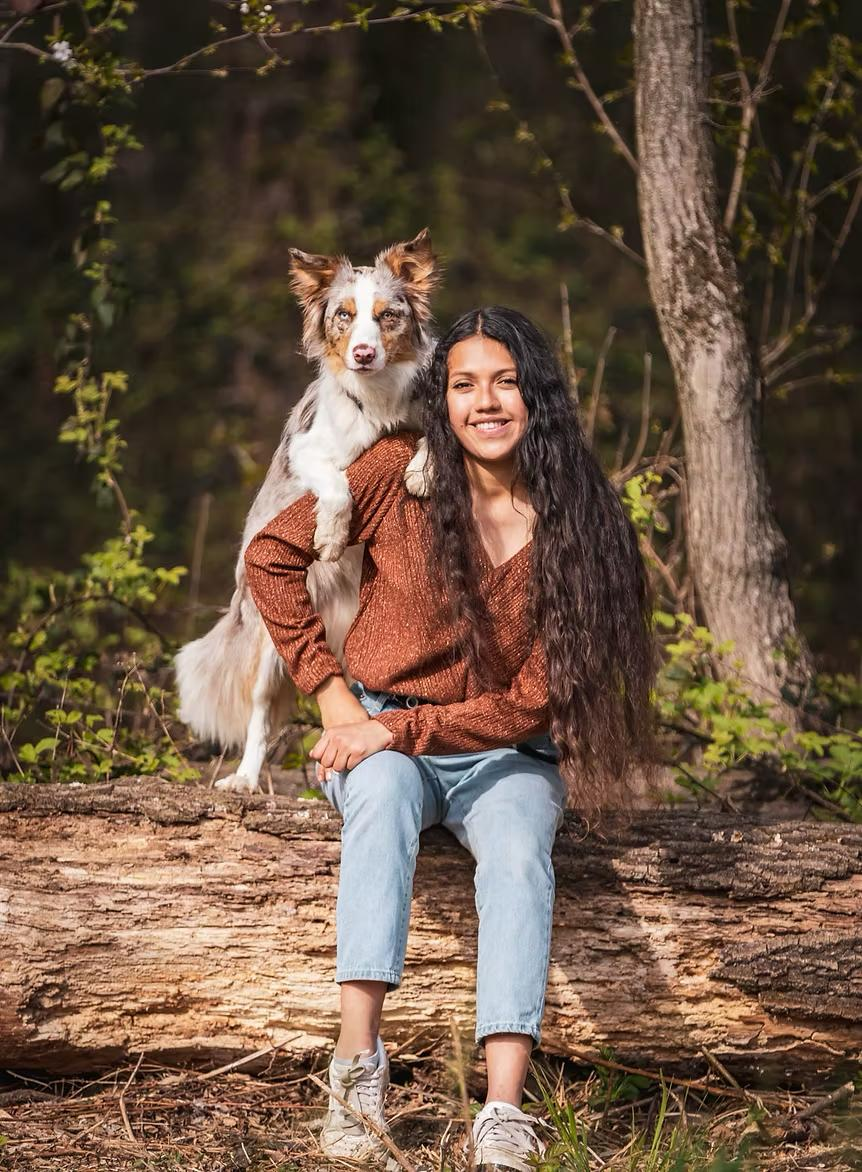
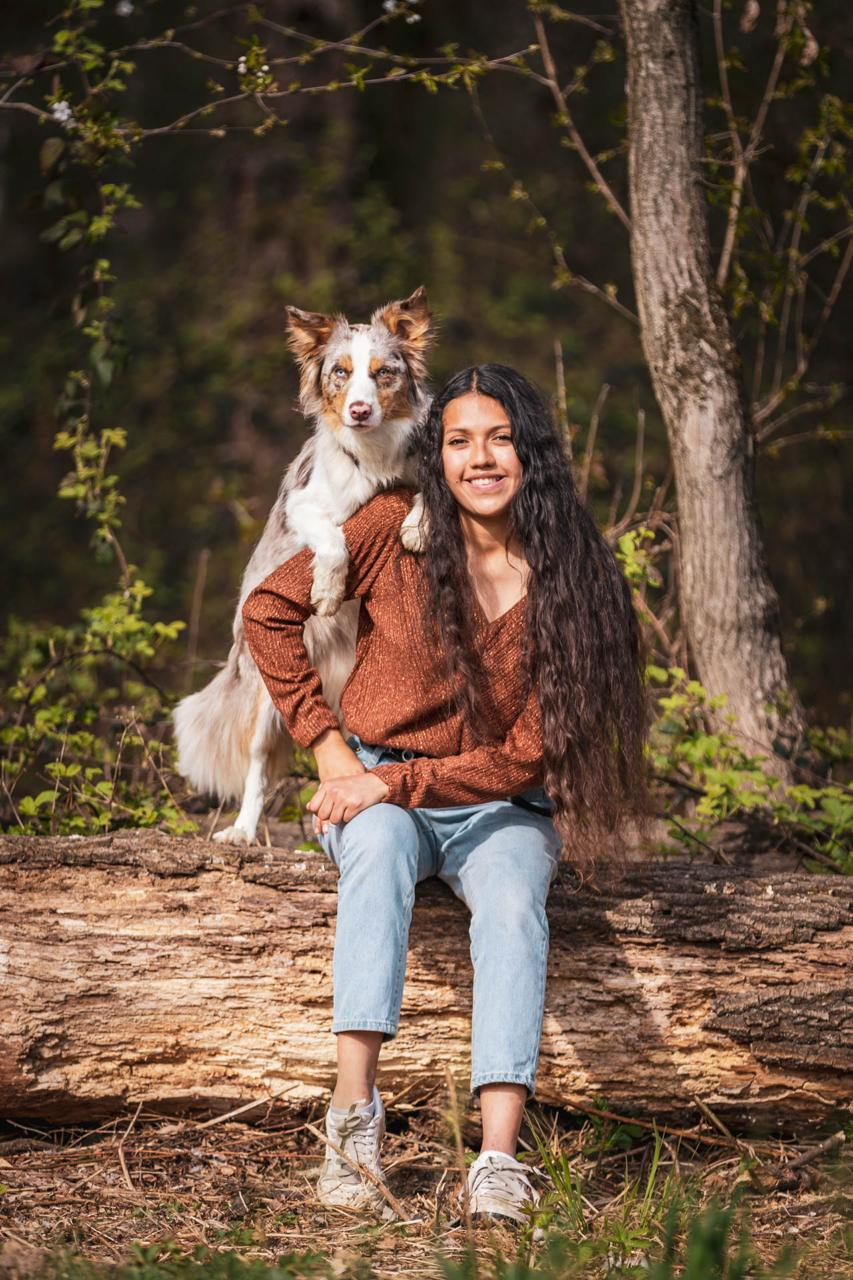
replaced img with hi res, implented toggle on objection section

diff --git a/index.html b/index.html
@@ -167,7 +167,7 @@ relazione con il tuo cane con l’aiuto di Melissa Muñoz.">
 
 						<div id="logo">
 							<a href="index.html">
-									<h1 class="title">Melissa Munoz</h1>
+								<h1 class="title">Melissa Munoz</h1>
 							</a>
 						</div>
 
@@ -196,13 +196,14 @@ relazione con il tuo cane con l’aiuto di Melissa Muñoz.">
 										<div>Home</div>
 									</a>
 								</li>
-								 <li class="menu-item">
-									<a href="#about-anchor" class="menu-link" data-href="#about-anchor" data-scrollto="#form-anchor" data-easing="easeInOutExpo" data-speed="1250"
-							data-offset="70">
+								<li class="menu-item">
+									<a href="#about-anchor" class="menu-link" data-href="#about-anchor"
+										data-scrollto="#form-anchor" data-easing="easeInOutExpo" data-speed="1250"
+										data-offset="70">
 										<div>About</div>
 									</a>
-								</li> 
-							<!-- 	<li class="menu-item">
+								</li>
+								<!-- 	<li class="menu-item">
 									<a href="/risultati.html" class="menu-link" data-href="/risultati.html">
 										<div>Risultati</div>
 									</a>
@@ -273,7 +274,8 @@ relazione con il tuo cane con l’aiuto di Melissa Muñoz.">
 						<h2 class="mx-auto mb-5 mt-5 font-body" style="max-width: 700px; font-size: 40px;">
 							Un cane sereno nasce da una relazione profonda. </h2>
 
-						<p class="lead mx-auto mb-5" style="max-width: 800px; font-size:30px"> Ti aiuto a costruirla, passo passo e su
+						<p class="lead mx-auto mb-5" style="max-width: 800px; font-size:30px"> Ti aiuto a costruirla,
+							passo passo e su
 							misura per te.</p>
 						<!--<h4><u>Non è colpa tua. E non è colpa sua.</u></h4> -->
 						<div class="mt-5 text-center mb-5"><a id="chiedi-lezione"
@@ -281,8 +283,8 @@ relazione con il tuo cane con l’aiuto di Melissa Muñoz.">
 								data-easing="easeInOutExpo" data-speed="1250" data-offset="70">Scopri di più</a></div>
 
 					</div>
-					<div class="container row g-0 mx-auto" id="il-tuo-cane-tira" >
-						<div class="col-lg-6 col-md-6 col-sm-12 col-12 large-text-section"  >
+					<div class="container row g-0 mx-auto" id="il-tuo-cane-tira">
+						<div class="col-lg-6 col-md-6 col-sm-12 col-12 large-text-section">
 							<p> Il tuo cane tira al guinzaglio, si agita quando vede altri cani o non riesci a
 								portarlo in pubblico per paura delle sue reazioni?</p>
 							<p>Raggiungere più equilibrio e sicurezza insieme è possibile, dobbiamo solo
@@ -322,8 +324,7 @@ relazione con il tuo cane con l’aiuto di Melissa Muñoz.">
 
 						<div class="col-lg-6 col-md-6 col-sm-12 col-12" id="img-1-wrapper">
 
-							<img src="images/img-walking.jpeg" alt="Melissa e Krystal" class="img-fluid"
-								id="img-1">
+							<img src="images/img-walking.jpeg" alt="Melissa e Krystal" class="img-fluid" id="img-1">
 						</div>
 
 
@@ -338,7 +339,7 @@ relazione con il tuo cane con l’aiuto di Melissa Muñoz.">
 		<div class="clear"></div>
 
 
-   <a id="about-anchor"></a>
+		<a id="about-anchor"></a>
 		<div id="section-about" class="page-section alt pt-5">
 
 			<div class="p-4">
@@ -350,40 +351,45 @@ relazione con il tuo cane con l’aiuto di Melissa Muñoz.">
 					<div class="mx-auto text-center col-md-6 px-3 " style="max-width: 900px;">
 						<div class="large-text-section">
 							<div>
-		
-								<h1 class="mb-0 fw-normal ls-1 pb-5 "><strong>Chi sono e perché posso aiutarti</strong></h1>
+
+								<h1 class="mb-0 fw-normal ls-1 pb-5 "><strong>Chi sono e perché posso aiutarti</strong>
+								</h1>
 							</div>
 
-					
-						<p>Mi chiamo Melissa Muñoz e da molti anni aiuto cani e persone a capirsi meglio.</p>
-						<br>
-						<p>Ho seguito centinaia di cani e padroni, lavorando in tantissimi contesti e città diverse!</p>
-						<p>Ho portato il mio cane a gare nazionali e internazionali, ma sono qui per aiutarti, non per
-							mostrarti le mie medaglie.</p>
-						<br>
-						<p>Sono qui perché so cosa vuol dire sentirsi
-							inadeguati, avere un cane che ami ma che ti
-							mette in difficoltà, che ti fa vergognare al
-							parco, o che ti fa pensare “forse non sono
-							capace”.</p>
-						<p>Il mio approccio è pensato per <strong>costruire fiducia</strong>, per accompagnarti senza
-							giudizio,
-							con strumenti concreti e supporto reale.</p>
-						<ul class="list-unstyled text-center">
-							<li><i class="fa-solid fa-font-awesome fa-xl"
-									style="color: #ff7800; padding-right:5px; padding-bottom:5px;"></i> Campionessa
-								italiana obedience e dogdance</li>
-							<li><i class="fa-solid fa-font-awesome fa-xl"
-									style="color: #ff7800; padding-right:5px; padding-bottom:5px;"></i> +300 percorsi
-								realizzati</li>
-							<li><i class="fa-solid fa-font-awesome fa-xl"
-									style="color: #ff7800; padding-right:5px; padding-bottom:5px;"></i> +700.000
-								follower su TikTok</li>
-							<li><i class="fa-solid fa-font-awesome fa-xl"
-									style="color: #ff7800; padding-right:5px; padding-bottom:5px;"></i> Italia’s Got
-								Talent, Spagna’s Got Talent</li>
-						</ul>
-	</div>
+
+							<p>Mi chiamo Melissa Muñoz e da molti anni aiuto cani e persone a capirsi meglio.</p>
+							<br>
+							<p>Ho seguito centinaia di cani e padroni, lavorando in tantissimi contesti e città diverse!
+							</p>
+							<p>Ho portato il mio cane a gare nazionali e internazionali, ma sono qui per aiutarti, non
+								per
+								mostrarti le mie medaglie.</p>
+							<br>
+							<p>Sono qui perché so cosa vuol dire sentirsi
+								inadeguati, avere un cane che ami ma che ti
+								mette in difficoltà, che ti fa vergognare al
+								parco, o che ti fa pensare “forse non sono
+								capace”.</p>
+							<p>Il mio approccio è pensato per <strong>costruire fiducia</strong>, per accompagnarti
+								senza
+								giudizio,
+								con strumenti concreti e supporto reale.</p>
+							<ul class="list-unstyled text-center">
+								<li><i class="fa-solid fa-font-awesome fa-xl"
+										style="color: #ff7800; padding-right:5px; padding-bottom:5px;"></i> Campionessa
+									italiana obedience e dogdance</li>
+								<li><i class="fa-solid fa-font-awesome fa-xl"
+										style="color: #ff7800; padding-right:5px; padding-bottom:5px;"></i> +300
+									percorsi
+									realizzati</li>
+								<li><i class="fa-solid fa-font-awesome fa-xl"
+										style="color: #ff7800; padding-right:5px; padding-bottom:5px;"></i> +700.000
+									follower su TikTok</li>
+								<li><i class="fa-solid fa-font-awesome fa-xl"
+										style="color: #ff7800; padding-right:5px; padding-bottom:5px;"></i> Italia’s Got
+									Talent, Spagna’s Got Talent</li>
+							</ul>
+						</div>
 					</div>
 					<div class="mx-auto text-center col-md-12 px-3 py-5">
 						<a id="chiedi-lezione" class="button button-border button-circle fw-semibold"
@@ -394,42 +400,42 @@ relazione con il tuo cane con l’aiuto di Melissa Muñoz.">
 
 				</div>
 			</div>
-		
+
 			<!-- Content
 		============================================= -->
-		
-		
-	</div>
-	
-				<section id="problemi-comuni" class="text-center page-section">
-					<h2>Abbiamo ottenuto molti risultati, anche se.. </h2>
-					<h3> i problemi all'inizio erano questi:</h3> 
-					<div class="problemi large-text-section">
-						<ul>
-							<li class="mb-2"><i class="fa-solid fa-xmark fa-2xl"
-									style="color: #c01c28; padding-right:5px;"></i> Trascinava al guinzaglio</li>
-							<li class="mb-2"><i class="fa-solid fa-xmark fa-2xl"
-									style="color: #c01c28; padding-right:5px;"></i> Impazziva quando suonavano alla porta
-							</li>
-							<li class="mb-2"><i class="fa-solid fa-xmark fa-2xl"
-									style="color: #c01c28; padding-right:5px;"></i> Non tornava se la lasciavo libera</li>
-							<li class="mb-2"><i class="fa-solid fa-xmark fa-2xl"
-									style="color: #c01c28; padding-right:5px;"></i> Si agitava o ringhiava con altri cani
-							</li>
-							<li class="mb-2"><i class="fa-solid fa-xmark fa-2xl"
-									style="color: #c01c28; padding-right:5px;"></i> In casa non mi lasciava respirare</li>
-						</ul>
-					</div>
-					<p><strong>Non sei solo.</strong> Sappi che questi problemi sono più comuni di quanto pensi.</p>
-					<p>E puoi avere qualcuno che vi accompagna . Che vi segue passo per passo.</p>
-				</section>
-	
-				<div class="pt-5 text-center pb-5"><a id="chiedi-lezione"
-						class="button button-border button-circle fw-semibold" data-scrollto="#form-anchor"
-						data-easing="easeInOutExpo" data-speed="1250" data-offset="70">Chiedi una lezione</a></div>
 
 
-<!-- 
+		</div>
+
+		<section id="problemi-comuni" class="text-center page-section">
+			<h2>Abbiamo ottenuto molti risultati, anche se.. </h2>
+			<h3> i problemi all'inizio erano questi:</h3>
+			<div class="problemi large-text-section">
+				<ul>
+					<li class="mb-2"><i class="fa-solid fa-xmark fa-2xl" style="color: #c01c28; padding-right:5px;"></i>
+						Trascinava al guinzaglio</li>
+					<li class="mb-2"><i class="fa-solid fa-xmark fa-2xl" style="color: #c01c28; padding-right:5px;"></i>
+						Impazziva quando suonavano alla porta
+					</li>
+					<li class="mb-2"><i class="fa-solid fa-xmark fa-2xl" style="color: #c01c28; padding-right:5px;"></i>
+						Non tornava se la lasciavo libera</li>
+					<li class="mb-2"><i class="fa-solid fa-xmark fa-2xl" style="color: #c01c28; padding-right:5px;"></i>
+						Si agitava o ringhiava con altri cani
+					</li>
+					<li class="mb-2"><i class="fa-solid fa-xmark fa-2xl" style="color: #c01c28; padding-right:5px;"></i>
+						In casa non mi lasciava respirare</li>
+				</ul>
+			</div>
+			<p><strong>Non sei solo.</strong> Sappi che questi problemi sono più comuni di quanto pensi.</p>
+			<p>E puoi avere qualcuno che vi accompagna . Che vi segue passo per passo.</p>
+		</section>
+
+		<div class="pt-5 text-center pb-5"><a id="chiedi-lezione" class="button button-border button-circle fw-semibold"
+				data-scrollto="#form-anchor" data-easing="easeInOutExpo" data-speed="1250" data-offset="70">Chiedi una
+				lezione</a></div>
+
+
+		<!-- 
 		<div class="content-wrap" id="corso-images">
 
 			<div class="container mx-auto text-center mb-5">
@@ -545,11 +551,11 @@ relazione con il tuo cane con l’aiuto di Melissa Muñoz.">
 					<h1>COME FUNZIONA IL PERCORSO?</h1>
 					<div class="large-text-section">
 						<h3>Metodo pratico e personalizzato</h3>
-							Non esistono “pacchetti standard”. Esiste un percorso che costruiamo insieme, settimana dopo
-							settimana.
+						Non esistono “pacchetti standard”. Esiste un percorso che costruiamo insieme, settimana dopo
+						settimana.
 						</p>
 					</div>
-						
+
 
 				</div>
 				<div class="row align-items-stretch grid-border">
@@ -563,7 +569,8 @@ relazione con il tuo cane con l’aiuto di Melissa Muñoz.">
 							<div class="fbox-content mb-3">
 								<h3 class="text-transform-none ls-0 text-larger mt-3">Fase 1: Valutazione iniziale</h3>
 							</div>
-							<p class="large-text-section">Analizziamo insieme le abitudini, i punti critici e gli obiettivi. Nessuna pressione:
+							<p class="large-text-section">Analizziamo insieme le abitudini, i punti critici e gli
+								obiettivi. Nessuna pressione:
 								solo osservazione e ascolto.</p>
 						</div>
 					</div>
@@ -578,7 +585,8 @@ relazione con il tuo cane con l’aiuto di Melissa Muñoz.">
 								<h3 class="text-transform-none ls-0 text-larger mt-3">Fase 2: Incontri educativi
 									personalizzati</h3>
 							</div>
-							<p class="large-text-section">Lezioni calibrate su di voi, dinamiche, adattive. Lavoriamo in campo, in città, al
+							<p class="large-text-section">Lezioni calibrate su di voi, dinamiche, adattive. Lavoriamo in
+								campo, in città, al
 								domicilio — dove serve davvero.</p>
 						</div>
 					</div>
@@ -592,7 +600,8 @@ relazione con il tuo cane con l’aiuto di Melissa Muñoz.">
 							<div class="fbox-content mb-3">
 								<h3 class="text-transform-none ls-0 text-larger mt-3">Fase 3: Supporto continuo</h3>
 							</div>
-							<p class="large-text-section">Ti chiedi: “Lo sto facendo bene?” — mandami un video e ti do un feedback
+							<p class="large-text-section">Ti chiedi: “Lo sto facendo bene?” — mandami un video e ti do
+								un feedback
 								personalizzato.</p>
 						</div>
 					</div>
@@ -607,7 +616,8 @@ relazione con il tuo cane con l’aiuto di Melissa Muñoz.">
 								<h3 class="text-transform-none ls-0 text-larger mt-3">Fase 4: Controllo dei progressi
 								</h3>
 							</div>
-							<p class="large-text-section"> Ogni venerdì ci aggiorniamo. Non per giudicare, ma per progredire insieme.</p>
+							<p class="large-text-section"> Ogni venerdì ci aggiorniamo. Non per giudicare, ma per
+								progredire insieme.</p>
 						</div>
 					</div>
 				</div>
@@ -620,31 +630,60 @@ relazione con il tuo cane con l’aiuto di Melissa Muñoz.">
 				<h2 class="row col-lg-6 p-2 text-center mx-auto">
 					E se una di queste cose ti sta fermando...leggi qui!
 				</h2>
-				<div class="row py-5 px-2 col-lg-6 col-md-6 col-sm-12 mx-auto">
-					<h4>“Il mio cane è troppo grande / troppo difficile...”</h4>
-					<p class="large-text-section">
+				<div class="toggle row p-4 col-lg-6 col-md-6 col-sm-12 mx-auto ">
+					<div class="toggle-header">
+
+						<h4 class="toggle-title ">“Il mio cane è troppo grande / troppo difficile...”</h4>
+
+						<div class="toggle-icon ">
+							<i class="toggle-closed fa-solid fa-chevron-down text-black-60"></i>
+							<i class="toggle-open fa-solid fa-chevron-up text-black-60"></i>
+						</div>
+					</div>
+					<div class="large-text-section toggle-content p-1">
 						Non è mai troppo tardi per migliorare la relazione. Lavoro anche con cani adulti, con
 						traumi o abitudini radicate. Si parte da dove si è, non da dove si vorrebbe essere.
-					</p>
+					</div>
+
 				</div>
-				<div class="row py-5 px-2 col-lg-6 col-md-6 col-sm-12 mx-auto">
-					<h4>“Non ho tempo.”</h4>
-					<p class="large-text-section">
+				<div class="toggle row p-4 col-lg-6 col-md-6 col-sm-12 mx-auto">
+
+					<div class="toggle-header">
+
+						<h4 class="toggle-title">“Non ho tempo.”</h4>
+
+						<div class="toggle-icon ">
+							<i class="toggle-closed fa-solid fa-chevron-down text-black-60"></i>
+							<i class="toggle-open fa-solid fa-chevron-up text-black-60"></i>
+						</div>
+
+					</div>
+					<p class="large-text-section toggle-content p-1">
 						Lo capisco. Per questo il mio metodo è flessibile e integrabile. Bastano 10–15 minuti al
 						giorno, con esercizi mirati, spiegati con chiarezza.
 					</p>
 				</div>
 
-				<div class="row py-5 px-2 col-lg-6 col-md-6 col-sm-12 mx-auto">
-					<h4>“E se il mio cane non risponde al percorso?”</h4>
-					<p class="large-text-section">Con me non “fallisci”: impari. Ti guido, ti ascolto, ti sostengo. E soprattutto... ci sono anche
+				<div class="toggle row p-4 px-2 col-lg-6 col-md-6 col-sm-12 mx-auto">
+					<div class="toggle-header">
+
+						<h4 class="toggle-title">“E se il mio cane non risponde al percorso?”</h4>
+						
+						<div class="toggle-icon ">
+							<i class="toggle-closed fa-solid fa-chevron-down text-black-60"></i>
+							<i class="toggle-open fa-solid fa-chevron-up text-black-60"></i>
+						</div>
+
+					</div>
+					<p class="large-text-section toggle-content p-1">Con me non “fallisci”: impari. Ti guido, ti ascolto, ti sostengo. E
+						soprattutto... ci sono anche
 						tra una lezione e l’altra.</p>
 				</div>
 
 			</div>
 		</section>
 
-	
+
 		<!-- FORM START ================================== -->
 
 		<a id="form-anchor"></a>
@@ -683,7 +722,7 @@ relazione con il tuo cane con l’aiuto di Melissa Muñoz.">
 								<input type="text" id="template-contactform-name" name="Nome" value=""
 									class="form-control border-form-control required" placeholder="  Il tuo Nome">
 							</div>
-						<!-- 	<div class="col-md-6 mb-4">
+							<!-- 	<div class="col-md-6 mb-4">
 								<input type="email" id="template-contactform-email" name="Email" value=""
 									class="required email form-control border-form-control"
 									placeholder="  Indirizzo Email">

diff --git a/css/custom.css b/css/custom.css
@@ -249,7 +249,7 @@ article .portfolio-image img {
 }
 
 #section-contact {
-  padding-top: 7em; 
+  padding-top: 4em; 
   margin-top: 10em;
   margin-bottom: 15em; 
   border: 2px solid #a8a8a8;
